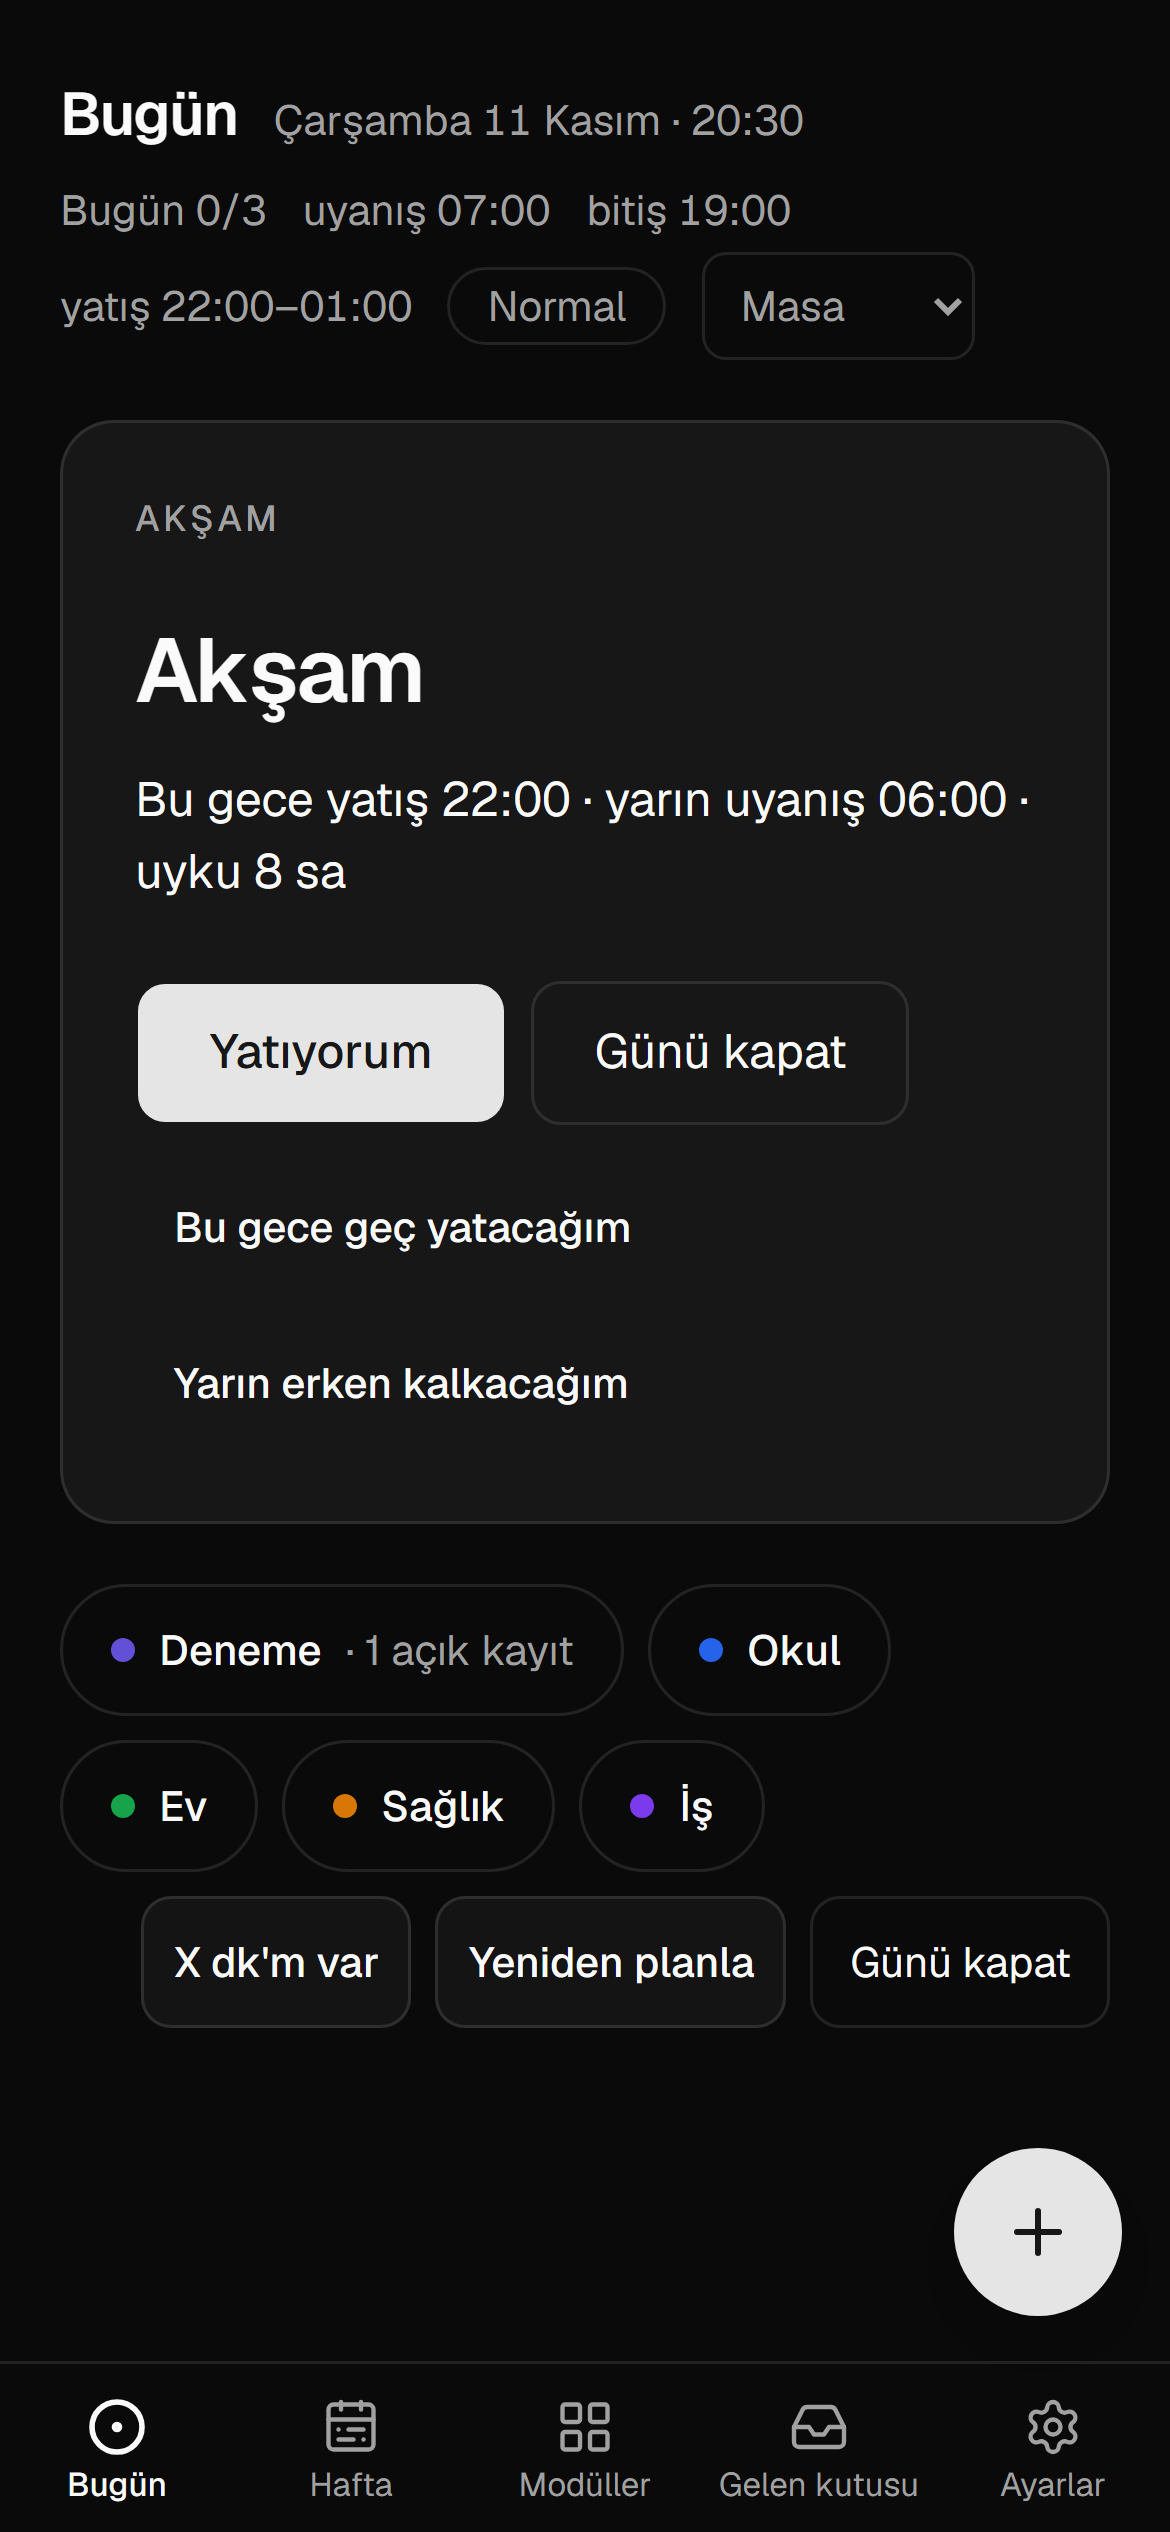
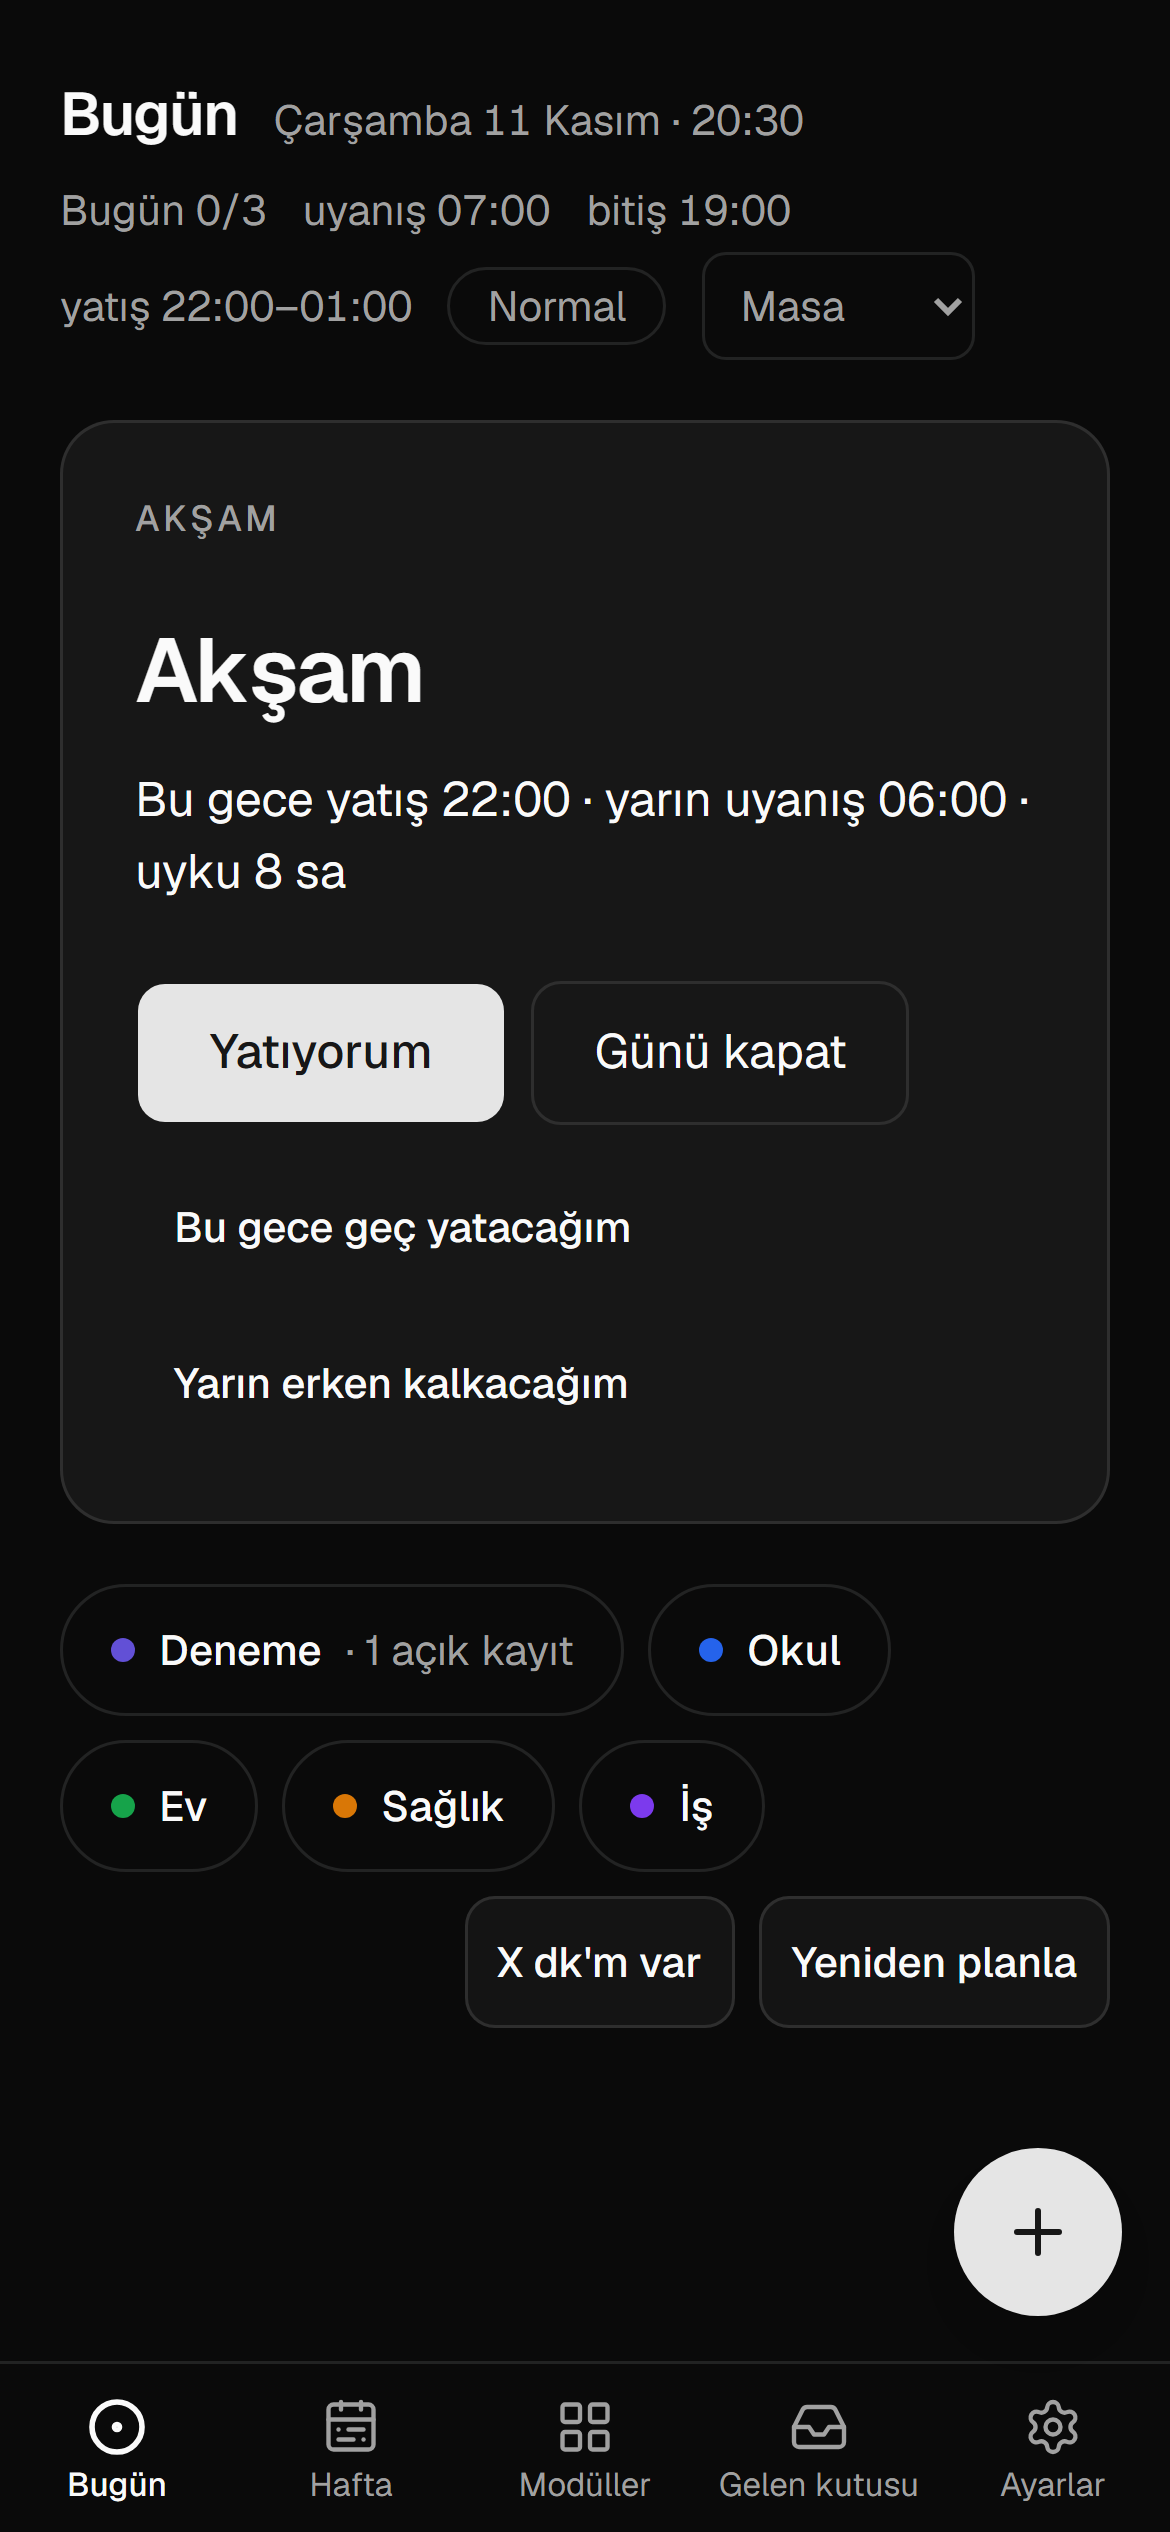
C3c phase audit round 1 fixes: deneme hears the core's events and reads ctx.days, calm night and evening, voice guard

Changed region(s): [[0.3692, 0.7488, 0.9231, 0.8112], [0.1538, 0.7488, 0.3385, 0.78]]

diff --git a/src/modules/deneme/components/Views.tsx b/src/modules/deneme/components/Views.tsx
@@ -8,7 +8,7 @@ import type { ModuleViewProps } from "@/core/contract/types";
 import { BarChart, EmptyState, NumberStepper, Timer } from "@/core/ui/kit";
 import { useModule } from "@/core/ui/module/ModuleProvider";
 import { SAVE_FAILED, useNotify } from "@/core/ui/Notices";
-import { formatMinutes } from "@/lib/date";
+import { dayKey, formatMinutes, shiftDay } from "@/lib/date";
 import { type DenemeKind, getItem, KIND_LABEL, listItems } from "../queries";
 import { settingsOf } from "../rules";
 
@@ -62,19 +62,38 @@ export function ItemPage({ params }: ModuleViewProps) {
 export function HistoryView() {
   const { row } = useModule();
   const items = useModuleQuery(row, ["items"], listItems);
+  // Ç3c: the days' waking and bedtime, read through the context (`ctx.days`).
+  const days = useModuleQuery(row, ["days"], (ctx) => ctx.days(shiftDay(dayKey(ctx.now()), -7)));
   const finished = (items.data ?? []).filter((item) => item.done && item.spent_minutes !== null);
   if (items.isLoading) return null;
-  if (finished.length === 0) return <EmptyState>Biten kayıt yok.</EmptyState>;
+  const woke = (days.data ?? []).filter((day) => day.wokeAt !== null);
+  const dayLine =
+    woke.length > 0 ? (
+      <p data-testid="deneme-days" className="text-muted-foreground text-sm">
+        Son 7 günde uyanış kaydı: {woke.length} gün
+      </p>
+    ) : null;
+  if (finished.length === 0) {
+    return (
+      <>
+        {dayLine}
+        <EmptyState>Biten kayıt yok.</EmptyState>
+      </>
+    );
+  }
   return (
-    <BarChart
-      title="Biten kayıtlara harcanan süre"
-      data={finished.slice(-8).map((item) => ({
-        label: item.title.slice(0, 10),
-        value: item.spent_minutes!,
-      }))}
-      unit="dk"
-      color={row.color}
-    />
+    <>
+      {dayLine}
+      <BarChart
+        title="Biten kayıtlara harcanan süre"
+        data={finished.slice(-8).map((item) => ({
+          label: item.title.slice(0, 10),
+          value: item.spent_minutes!,
+        }))}
+        unit="dk"
+        color={row.color}
+      />
+    </>
   );
 }
 

diff --git a/src/modules/deneme/rules.ts b/src/modules/deneme/rules.ts
@@ -21,7 +21,14 @@ export const EVENTS = {
 
 export const FEEDBACK_PROMPT = "zorluk";
 
-type Settings = { default_minutes?: number; added_count?: number; archived_on?: string };
+type Settings = {
+  default_minutes?: number;
+  added_count?: number;
+  archived_on?: string;
+  /** Ç3c: days the module heard begin, and the last of its sessions that ended. */
+  days_started?: number;
+  last_session?: { result: string; minutes: number };
+};
 
 export function settingsOf(ctx: ModuleContext): Settings {
   return (ctx.module.settings ?? {}) as Settings;
@@ -153,6 +160,27 @@ export const listeners: Record<string, (event: AppEvent, ctx: ModuleContext) => 
   [EVENTS.itemAdded]: async (_event, ctx) => {
     const settings = settingsOf(ctx);
     await ctx.saveSettings({ ...settings, added_count: (settings.added_count ?? 0) + 1 });
+  },
+  // Ç3c: a session of the module's own work started. A workout begins at its first step (the
+  // step scene keeps its place in the record).
+  "core.session_started": async (event, ctx) => {
+    const source = (event.payload as { source?: { type?: string | null; id?: string | null } })
+      .source;
+    if (source?.type !== SOURCE_TYPE || !source.id) return;
+    await updateItem(ctx, source.id, { scene_step: null });
+  },
+  // Ç3c: how the module's last session ended (done, stopped, deferred, stuck, unanswered).
+  "core.session_ended": async (event, ctx) => {
+    const payload = event.payload as { result?: string; minutes?: number };
+    await ctx.saveSettings({
+      ...settingsOf(ctx),
+      last_session: { result: payload.result ?? "", minutes: payload.minutes ?? 0 },
+    });
+  },
+  // Ç3c: every module hears the day begin; this one counts them.
+  "core.day_started": async (_event, ctx) => {
+    const settings = settingsOf(ctx);
+    await ctx.saveSettings({ ...settings, days_started: (settings.days_started ?? 0) + 1 });
   },
   // The answer to the question asked in onOutcome.
   "core.prompt_answered": async (event, ctx) => {

diff --git a/tests/db/events.test.ts b/tests/db/events.test.ts
@@ -207,3 +207,52 @@ describe("day events", () => {
     });
   });
 });
+
+describe("the deneme module hears the core (Ç3c)", () => {
+  it("resets a workout's step when its session starts, keeps its last session, counts the days", async () => {
+    const { listeners } = await import("@/modules/deneme/rules");
+    const deneme = listener("deneme");
+    const definition = { ...deneme.definition, on: listeners };
+    const registry = createRegistry([definition]);
+    const told = { db, registry };
+    const mod = await makeModule(db, "deneme", "Deneme");
+    const item = ok(
+      await db
+        .from("deneme_items")
+        .insert({ title: "Salon", kind: "antrenman", scene_step: 3 })
+        .select()
+        .single(),
+    );
+    const rhythm = ok(
+      await db
+        .from("rhythms")
+        .insert({
+          module_id: mod.id,
+          title: "Salon",
+          target_count: 3,
+          period: "week",
+          est_minutes: 45,
+          energy: "physical",
+          context: "any",
+          source_type: "deneme.item",
+          source_id: item.id,
+        })
+        .select()
+        .single(),
+    );
+    const session = await startSessionTold(told, { rhythmId: rhythm.id });
+    expect(
+      ok(await db.from("deneme_items").select("scene_step").eq("id", item.id).single()).scene_step,
+    ).toBeNull();
+    await endSessionTold(told, session.id, "stopped", "stuck");
+    await tellDayStarted(told, {
+      date: "2026-11-18",
+      wokeAt: "2026-11-18T04:00:00Z",
+      estimated: false,
+    });
+    const settings = ok(await db.from("modules").select("settings").eq("id", mod.id).single())
+      .settings as { days_started?: number; last_session?: { result: string } };
+    expect(settings.days_started).toBe(1);
+    expect(settings.last_session?.result).toBe("stuck");
+  });
+});

diff --git a/src/core/ui/today/TodayScreen.tsx b/src/core/ui/today/TodayScreen.tsx
@@ -229,7 +229,7 @@ function TodayBody() {
         {/* The evening's card holds what the evening has (Ç3c): no list beside it. */}
         <section
           aria-label="Sıradakiler"
-          hidden={state.kind === "evening"}
+          hidden={state.kind === "evening" || (state.kind === "night" && input.frame !== undefined)}
           className="flex min-w-0 flex-col gap-3 lg:col-span-2"
         >
           <h2 className="text-muted-foreground text-xs font-medium tracking-widest uppercase">
@@ -292,12 +292,15 @@ function TodayBody() {
           <Button variant="outline" className="h-11 md:h-9" onClick={doReplan}>
             Yeniden planla
           </Button>
-          <Link
-            href="/kapanis"
-            className="border-border hover:bg-muted flex h-11 items-center rounded-lg border px-3 text-sm md:h-9"
-          >
-            Günü kapat
-          </Link>
+          {/* The evening's card has its own "Günü kapat" (Ç3c). */}
+          {state.kind === "evening" ? null : (
+            <Link
+              href="/kapanis"
+              className="border-border hover:bg-muted flex h-11 items-center rounded-lg border px-3 text-sm md:h-9"
+            >
+              Günü kapat
+            </Link>
+          )}
           <QuickAddButton />
         </div>
       </footer>

diff --git a/src/modules/deneme/scene.ts b/src/modules/deneme/scene.ts
@@ -1,19 +1,10 @@
-import type { ModuleScene, SceneSubject } from "@/core/contract/types";
+import type { ModuleScene } from "@/core/contract/types";
 import { DenemeScene } from "./components/Scenes";
+import { kindOf } from "./subject";
 
 // The module's scene (docs/06-modul-sozlesmesi.md, "Sahne"): when it comes, here (it runs on the
 // server too, where a client component is only a reference); what it draws, in
 // components/Scenes.tsx. A focused sitting ("odak") and a workout have one; a goal and a habit do not.
-
-/** The record's kind, as its proposal carried it in `meta`. */
-export const kindOf = (subject: SceneSubject): unknown =>
-  subject.kind === "task"
-    ? ((subject.workItem?.meta ?? subject.task.meta) as Record<string, unknown> | null)?.kind
-    : (subject.rhythm.meta as Record<string, unknown> | null)?.kind;
-
-/** The module's record behind the running work. */
-export const sourceOf = (subject: SceneSubject): string | null =>
-  subject.kind === "task" ? subject.task.source_id : subject.rhythm.source_id;
 
 export const denemeScene: ModuleScene = {
   when: (subject) => kindOf(subject) === "odak" || kindOf(subject) === "antrenman",

diff --git a/src/core/voice/device.ts b/src/core/voice/device.ts
@@ -34,8 +34,14 @@ export const deviceVoice: VoiceProvider = {
         .find((row) => row.voiceURI === options.voice && TURKISH.test(row.lang));
       if (voice) utterance.voice = voice;
       // Ended, cut off or refused ("not-allowed" without a tap): the queue goes on either way.
-      utterance.onend = () => resolve();
-      utterance.onerror = () => resolve();
+      // Some engines never say they are done: the queue goes on after a generous while anyway.
+      const guard = setTimeout(resolve, 5_000 + text.length * 150);
+      const done = () => {
+        clearTimeout(guard);
+        resolve();
+      };
+      utterance.onend = done;
+      utterance.onerror = done;
       speech.speak(utterance);
     });
   },

diff --git a/src/modules/deneme/subject.ts b/src/modules/deneme/subject.ts
@@ -1,0 +1,14 @@
+import type { SceneSubject } from "@/core/contract/types";
+
+// What the module reads off the running work its scene is for (no React: the scene's `when`
+// and its component both use it).
+
+/** The record's kind, as its proposal carried it in `meta`. */
+export const kindOf = (subject: SceneSubject): unknown =>
+  subject.kind === "task"
+    ? ((subject.workItem?.meta ?? subject.task.meta) as Record<string, unknown> | null)?.kind
+    : (subject.rhythm.meta as Record<string, unknown> | null)?.kind;
+
+/** The module's record behind the running work. */
+export const sourceOf = (subject: SceneSubject): string | null =>
+  subject.kind === "task" ? subject.task.source_id : subject.rhythm.source_id;

diff --git a/tests/unit/modules.test.ts b/tests/unit/modules.test.ts
@@ -60,6 +60,12 @@ describe("the deneme module", () => {
     expect(deneme.ui.fullscreen?.length).toBeGreaterThan(0);
     expect(deneme.ui.actions?.length).toBeGreaterThan(0);
     expect(deneme.ui.settings).toBeTypeOf("function");
+    // Ç3c: a scene, and the core's session and day events.
+    expect(deneme.ui.scene?.when).toBeTypeOf("function");
+    expect(deneme.ui.scene?.component).toBeTruthy();
+    expect(Object.keys(deneme.on ?? {})).toEqual(
+      expect.arrayContaining(["core.session_started", "core.session_ended", "core.day_started"]),
+    );
   });
 
   afterEach(() => {

diff --git a/src/modules/deneme/components/Scenes.tsx b/src/modules/deneme/components/Scenes.tsx
@@ -15,7 +15,7 @@ import { getItem, updateItem } from "../queries";
 // the module's own row so both screens follow it. A record named with "[hata]" throws: the core's
 // fallback is tried against it.
 
-import { kindOf, sourceOf } from "../scene";
+import { kindOf, sourceOf } from "../subject";
 
 export const WORKOUT_STEPS: Step[] = [
   { key: "isinma", title: "Isınma", seconds: 300, note: "Hafif tempoda yürü ya da pedal çevir." },

diff --git a/src/modules/deneme/module.ts b/src/modules/deneme/module.ts
@@ -202,7 +202,7 @@ export const deneme: ModuleDefinition = {
     ],
     settings: SettingsForm,
     history: HistoryView,
-    // While a goal's sitting or a workout runs, the Today screen is the module's (Ç3c).
+    // While a focused sitting ("odak") or a workout runs, the Today screen is the module's (Ç3c).
     scene: denemeScene,
   },
 };

diff --git a/docs/ILERLEME.md b/docs/ILERLEME.md
@@ -6,7 +6,7 @@ Bu dosyayı Claude Code günceller. Yeni bir oturum yalnızca bu dosyayı ve `pr
 
 - Faz: **Ç3c (Sahne ve günün çerçevesi) sürüyor** (12 Kas 2026). Ç0–Ç3b bitti (`c3b-tamam`); D1–D4 tamamlandı
 - Adım: 8 (kapanış: faz denetimi), 9 (yayın: `dev` bitti)
-- Son commit: C3c phase report; migrations on sherpa-dev
+- Son commit: C3c phase audit round 1 fixes
 
 ### Ç3c planı
 
@@ -377,7 +377,7 @@ Testler: 413 birim, 206 veritabanı, 166 uçtan uca (`npm run check:full` yeşil
 
 - Adım denetimi 1–2: GEÇTİ (5 önemli: başlatılmış işin bekçice düşürülmesi, akşamı bilmeyen hafta uyarısı, sabah rutininin "Biraz önce"de kaybolması, yük çekmesinin yeniden taahhüt tetiklemesi, ekranın yeni durumları çizmemesi); hepsi düzeltildi.
 - Adım denetimi 3–4: 1. tur GEÇMEDİ (engelleyici: Ayarlar'daki ikinci "Kaydet" Ç2'nin testini kırdı), 2. tur GEÇTİ (4 önemli); hepsi düzeltildi. Ayrıntı "Verdiğim kararlar"da.
-- Faz denetimi: aşağıda.
+- Faz denetimi, 1. tur (`c90a437`) GEÇMEDİ: kodda ve testlerde engelleyici yok. İki engelleyici kullanıcının elindeki ölçütler: `prod` migration'ı ve sesin gerçek cihazda denenmesi. Önemli: `deneme` yeni çekirdek olaylarını ve `ctx.days`'i örneklemiyordu. Düzeltme: `core.session_started` antrenmanın adımını sıfırlar, `core.session_ended` son oturumu ayara yazar, `core.day_started` günleri sayar, geçmiş bölgesi `ctx.days`'ten son 7 günün uyanış kaydını yazar (`tests/db/events.test.ts` +1). Notlar: sözleşme testi sahneyi ve olay dinleyicilerini bekler; `deneme`'nin döngüsel içe aktarımı kaldırıldı (`subject.ts`); yorum düzeltildi; çerçeve açıkken gecede de "Sıradakiler" gizli; akşamda alt satırdaki ikinci "Günü kapat" gizli (**görüşün gerek**); cihaz sesine süre bekçisi (`onend` gelmezse kuyruk takılmaz). `check:full` yeşil (413 / 207 / 166), görüntüler yeniden çekildi.
 
 ### Ç3b: Zaman kısıtları (12 Kas 2026)
 
